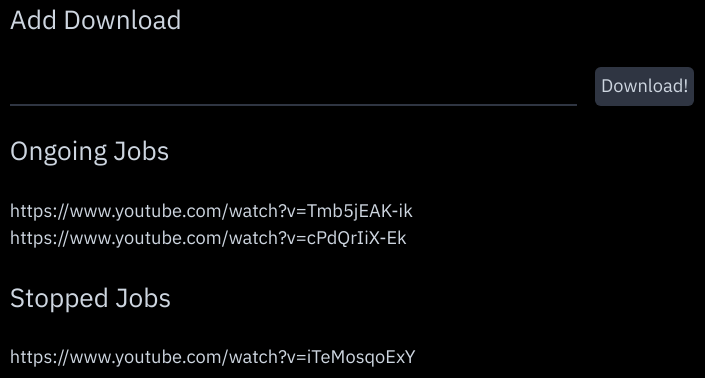
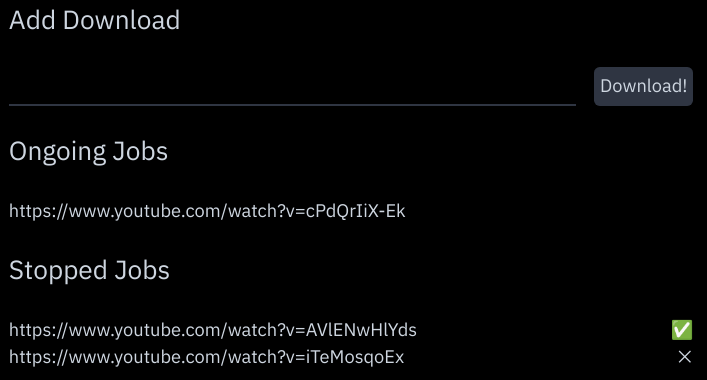
Add job status display

diff --git a/static/main.js b/static/main.js
@@ -73,7 +73,18 @@ class StoppedJobView extends React.Component
 
     render()
     {
-        return e("li", null, this.props["data"]["uri"]);
+        let status_text = "✅";
+        let status_tooltip = "Finished";
+        if(this.props["data"]["stop_reason"] != "Done")
+        {
+            status_text = "❌";
+            status_tooltip = JSON.stringify(this.props["data"]["stop_reason"]["Error"]);
+        }
+
+        return e("li", null,
+                 e("span", {"className": "JobURI"}, this.props["data"]["uri"]),
+                 e("span", {"className": "JobStatus", "title": status_tooltip},
+                   status_text));
     }
 }
 

diff --git a/static/style.css b/static/style.css
@@ -163,3 +163,14 @@ h2.SectionTitle
 {
     display: block;
 }
+
+#StoppedJobList > li
+{
+    display: flex;
+    gap: 1em;
+}
+
+#StoppedJobList > li > .JobURI
+{
+    flex-grow: 1;
+}
